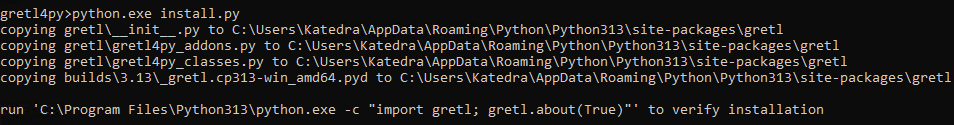
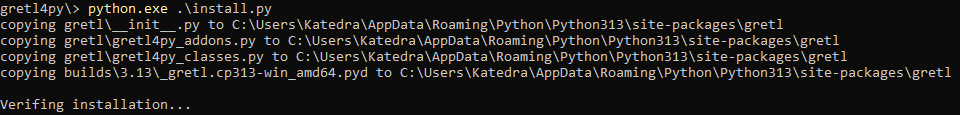
small doc tweaks

Changed region(s): [[0.0, 0.0261, 1.0, 0.7043], [0.0, 0.8087, 0.8816, 0.9652]]

diff --git a/doc/installation.tex b/doc/installation.tex
@@ -51,7 +51,12 @@ or \texttt{python3 -m site --user-site} on macOS:
 \end{itemize}
 Here, \texttt{3.xx} refers to the version of \python used to
 run the \texttt{install.py} script. Figure~\ref{fig:install.py}
-provides examples of the output generated by \texttt{install.py}.
+provides examples of the output generated by \texttt{install.py}%
+\footnote{Note that the macOS example presented pertains to
+	the \python distribution from \pkg{miniconda3}. If you are
+	using the \python distribution from \url{python.org} or
+	\pkg{MacPorts}, the \gretlpy\ module will be installed in
+	\texttt{/Users/[user's name]/Library/Python/3.xx/lib/python/site-packages/gretl}.}
 
 \begin{figure}[h!tb]
 	\centering
@@ -65,7 +70,7 @@ provides examples of the output generated by \texttt{install.py}.
 	\begin{subfigure}[b]{\textwidth}
 		\centering
 		\includegraphics[width=\columnwidth,keepaspectratio]{macos_install.py}
-		\caption{macOS, \python[3.11]}
+		\caption{macOS, \python[3.12]}
 		\label{fig:install.py-macos}
 	\end{subfigure}
 	
